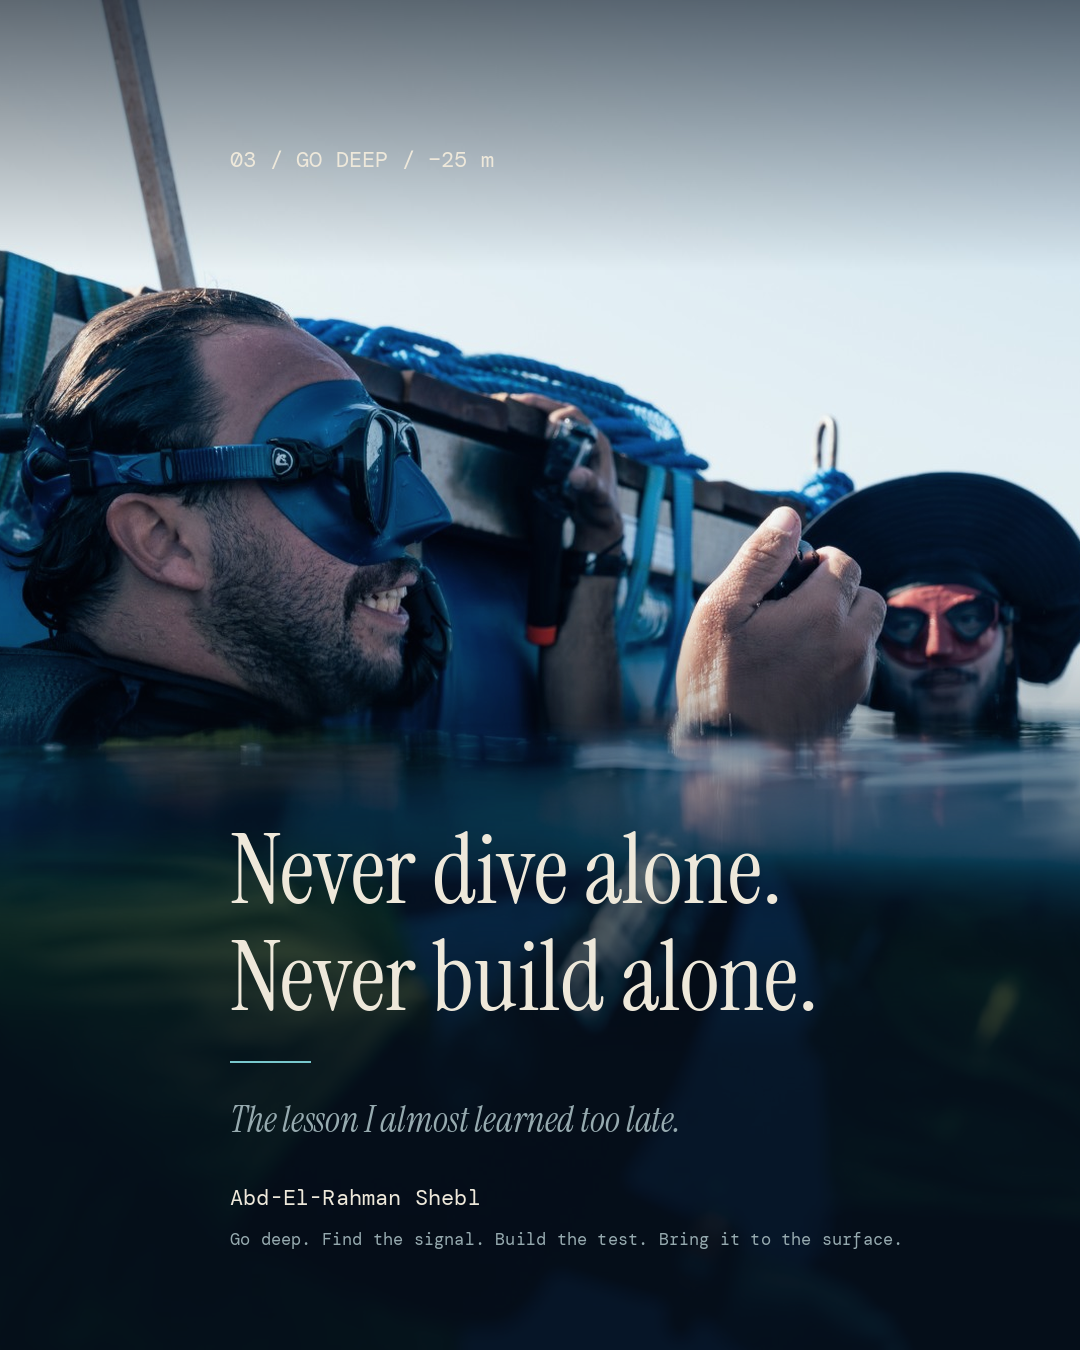
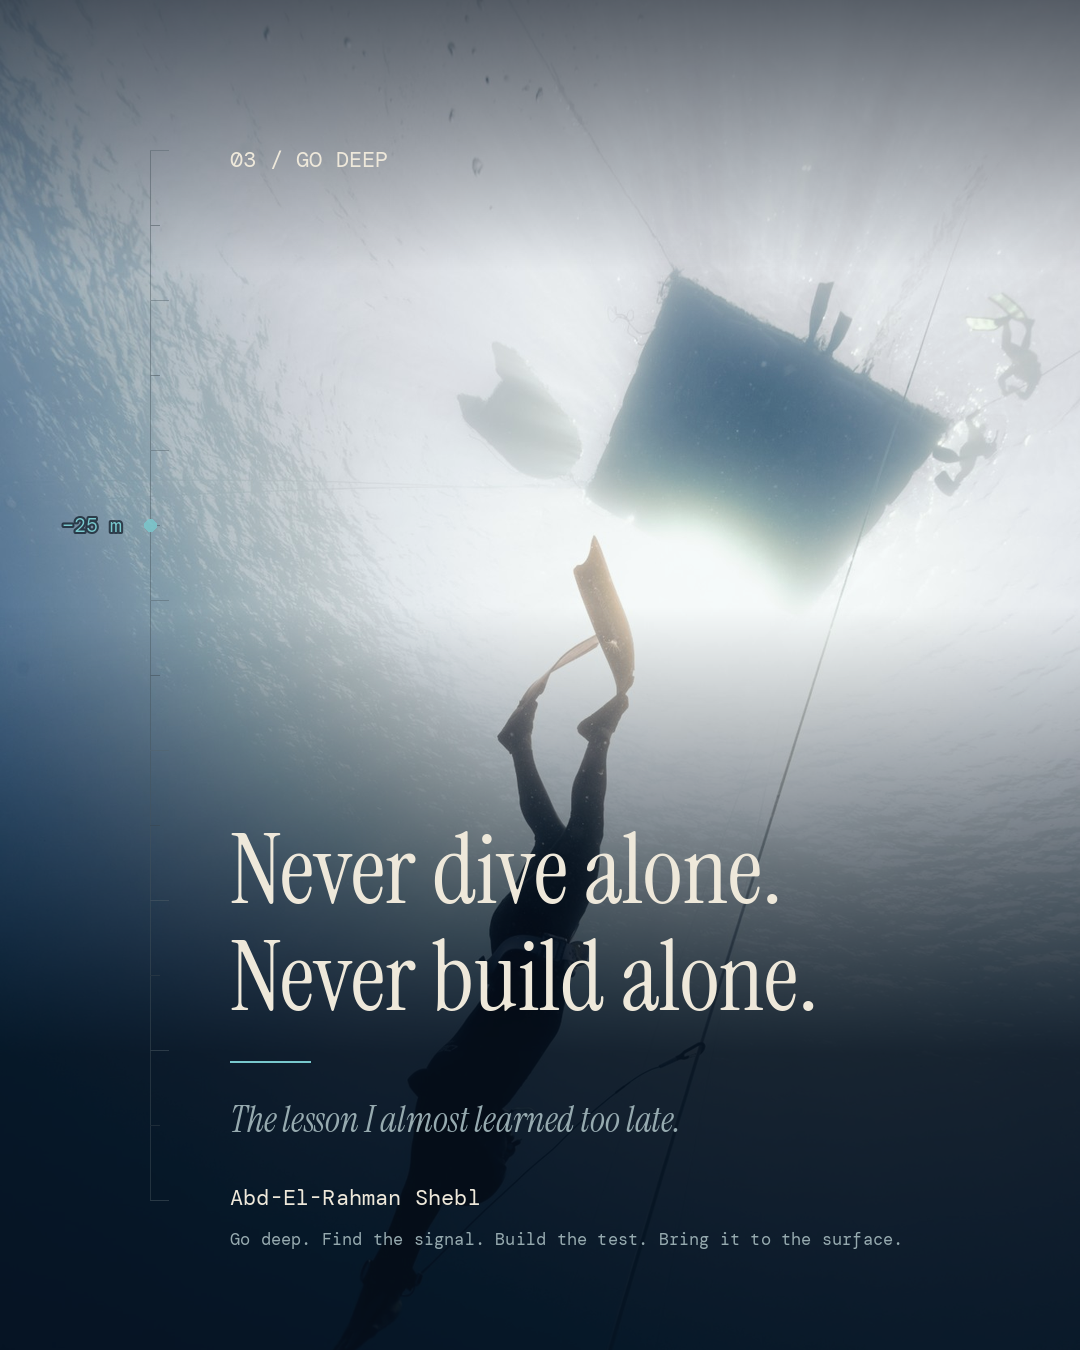
LinkedIn studio: post 03 uses the descent photo; judging photo kept as a spare
Claude-Session: https://claude.ai/code/session_017LSm8ADBcaHVjFRtYg6f1o

diff --git a/linkedin-studio/posts-log.md b/linkedin-studio/posts-log.md
@@ -7,7 +7,7 @@ Fill in results 48 h after posting. Review what works after 4 weeks (around 3 De
 |---|--------|-------|--------|---------|--------|-------------|-----------|----------|-----|-------|
 | 01 | GO DEEP | 5 m | photo overlay (shebl.jpg) | Thu 5 Nov 2026 | | | | | | ready |
 | 02 | GO DEEP | 15 m | photo overlay (commx-49.jpg, with a student) | Tue 10 Nov 2026 | | | | | | ready |
-| 03 | GO DEEP | 25 m | photo overlay (you + buddy at the platform) | Thu 12 Nov 2026 | | | | | | ready |
+| 03 | GO DEEP | 25 m | photo overlay (descent under the platform, safety divers at surface) | Thu 12 Nov 2026 | | | | | | ready |
 | 04 | FIND THE SIGNAL | 35 m | photo overlay (tr-openwater.jpg, you + student at the buoy) | Tue 17 Nov 2026 | | | | | | ready |
 | 05 | BUILD THE TEST | 45 m | photo clean (reef canyon) + graphic | Thu 19 Nov 2026 | | | | | | ready; first clear ask |
 | 06 | BUILD THE TEST | 55 m | site mockup (desktop + phone) + graphic | Tue 24 Nov 2026 | | | | | | ready |
